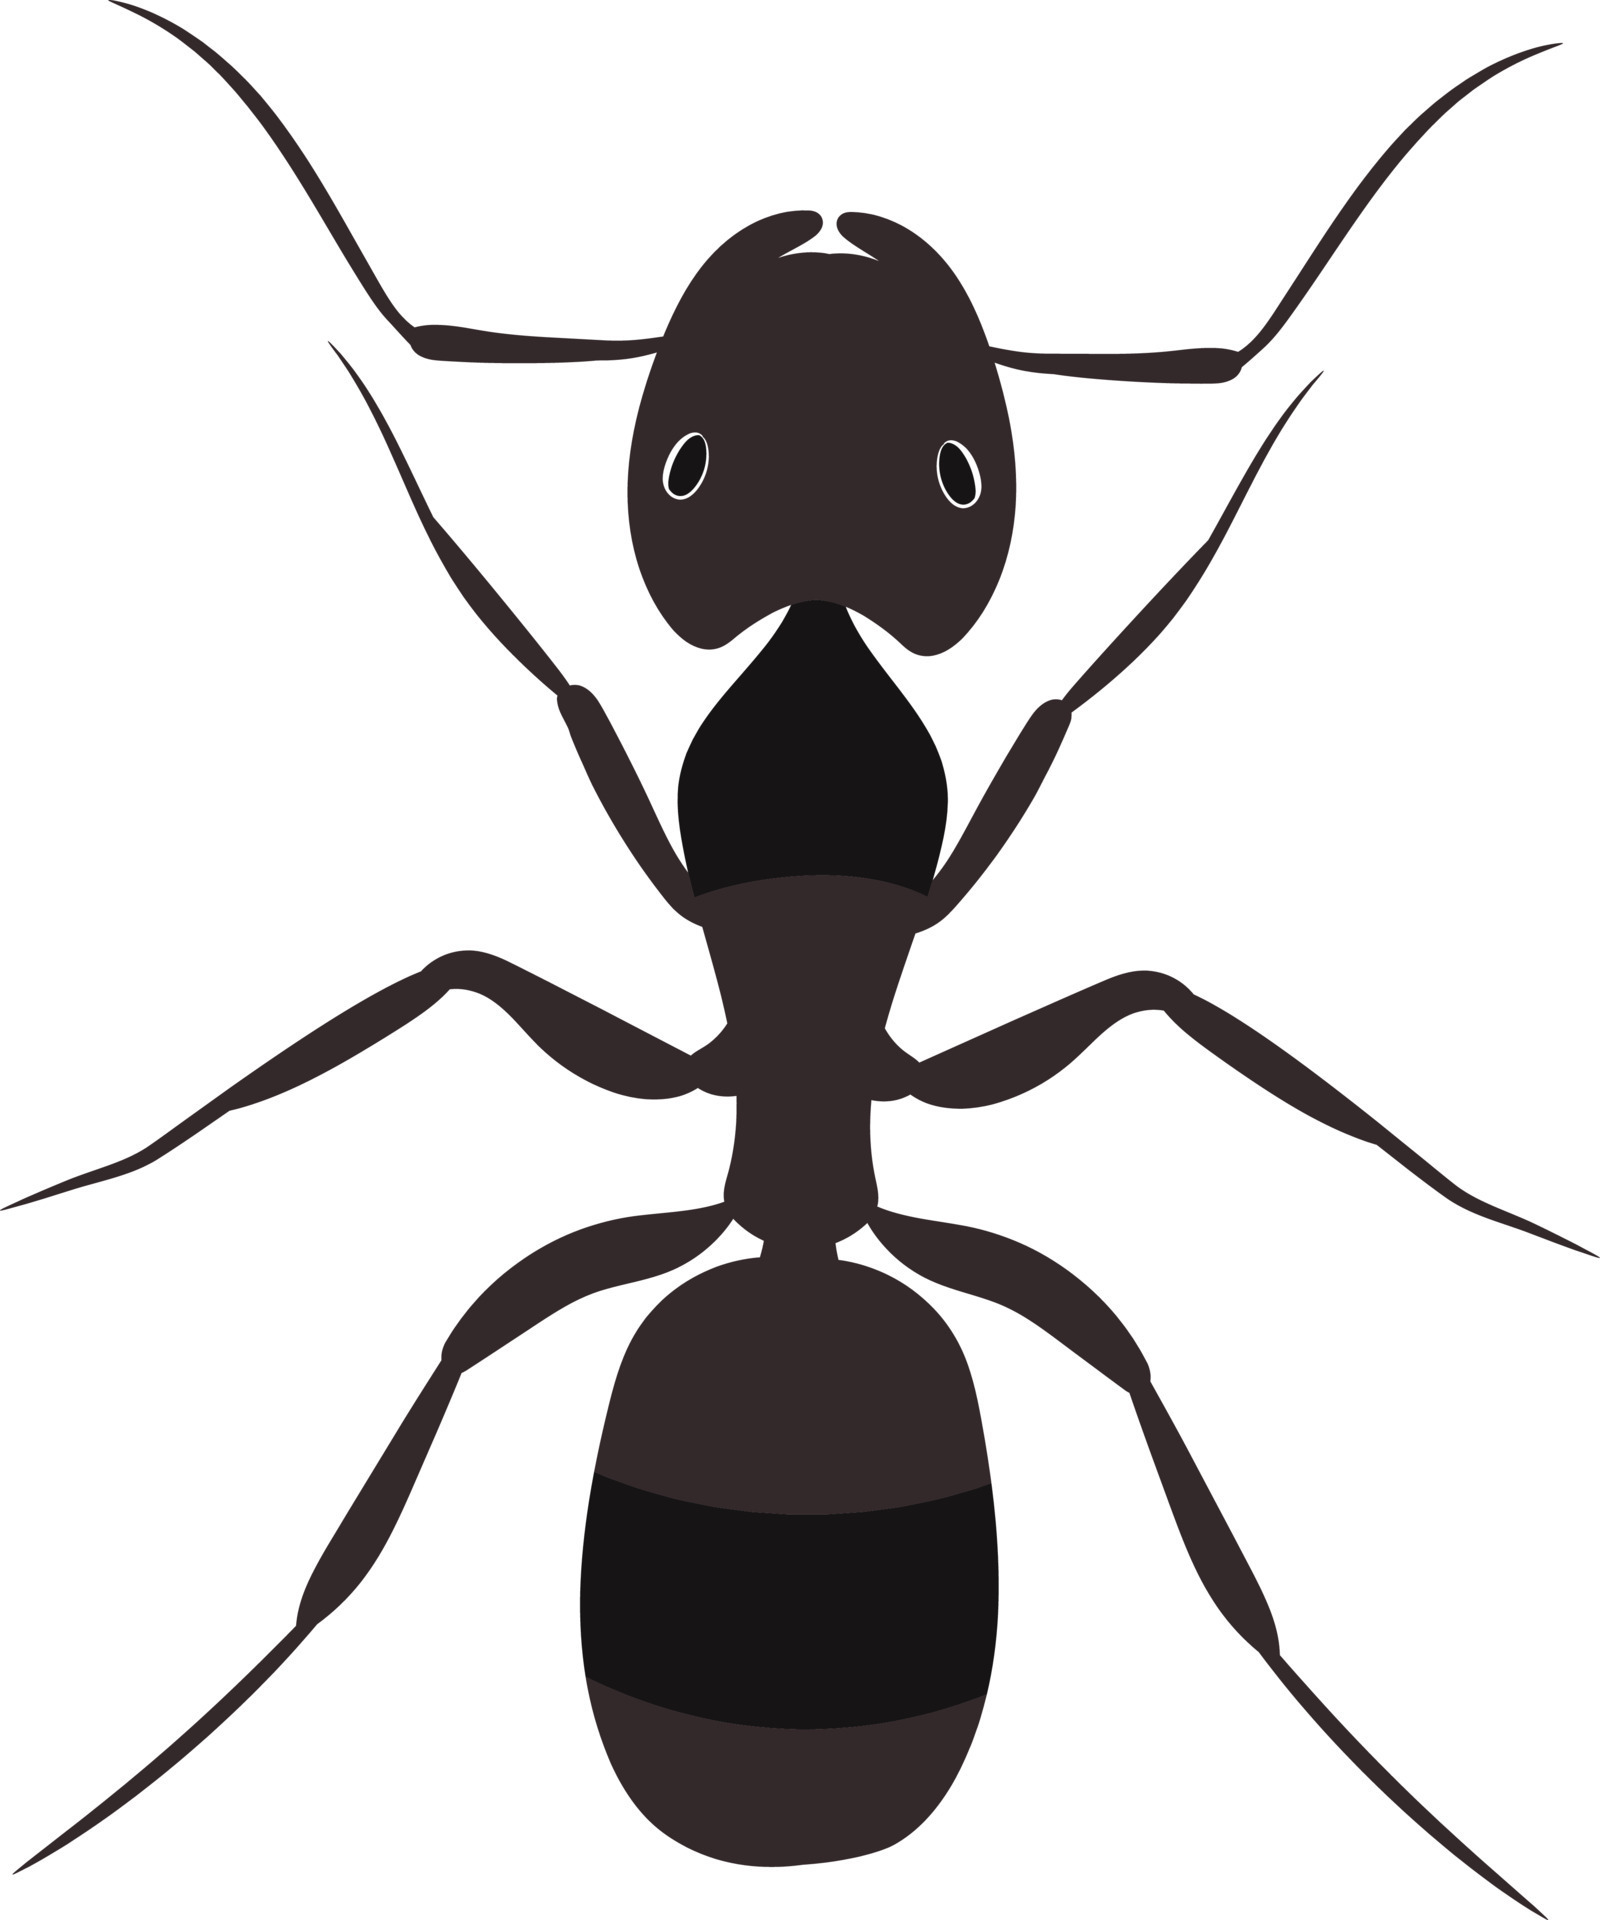
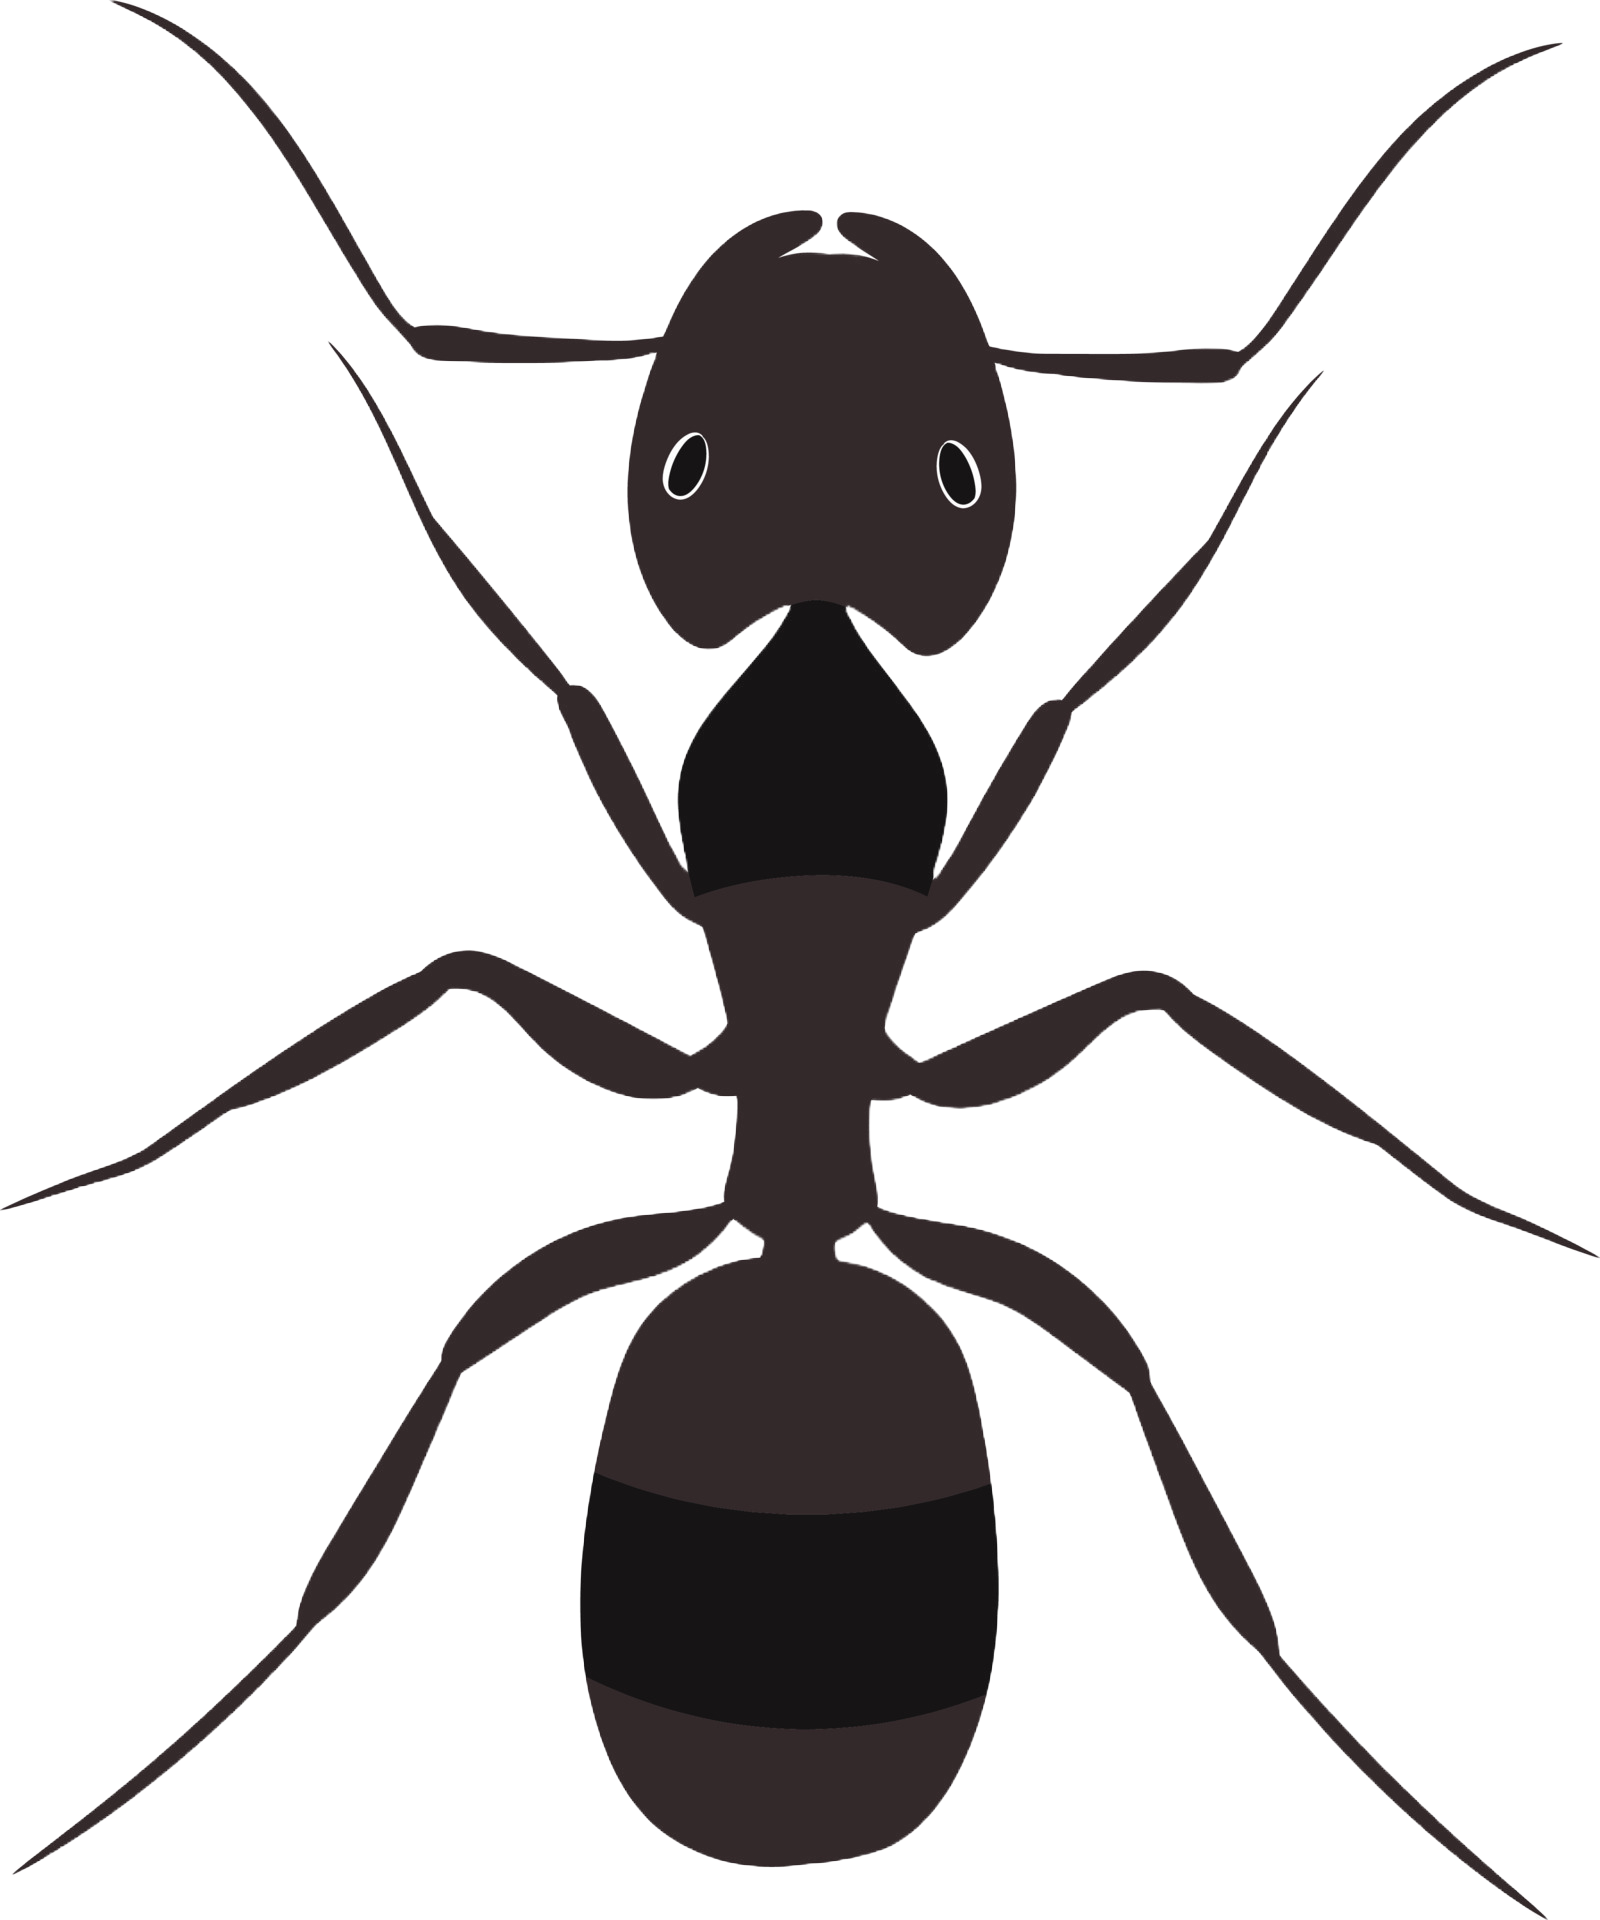
Cleaned up basic visuals
Added a green background and removed white background of the ant image.

diff --git a/Main.qml b/Main.qml
@@ -1,10 +1,17 @@
 import QtQuick
 
 Window {
+    id: mainWindow
     width: 640
     height: 480
     visible: true
     title: qsTr("Picnic Tower Defense")
+
+    Rectangle {
+        color: "green"
+        width: mainWindow.width
+        height: mainWindow.height
+    }
 
     Image {
         id: ant
